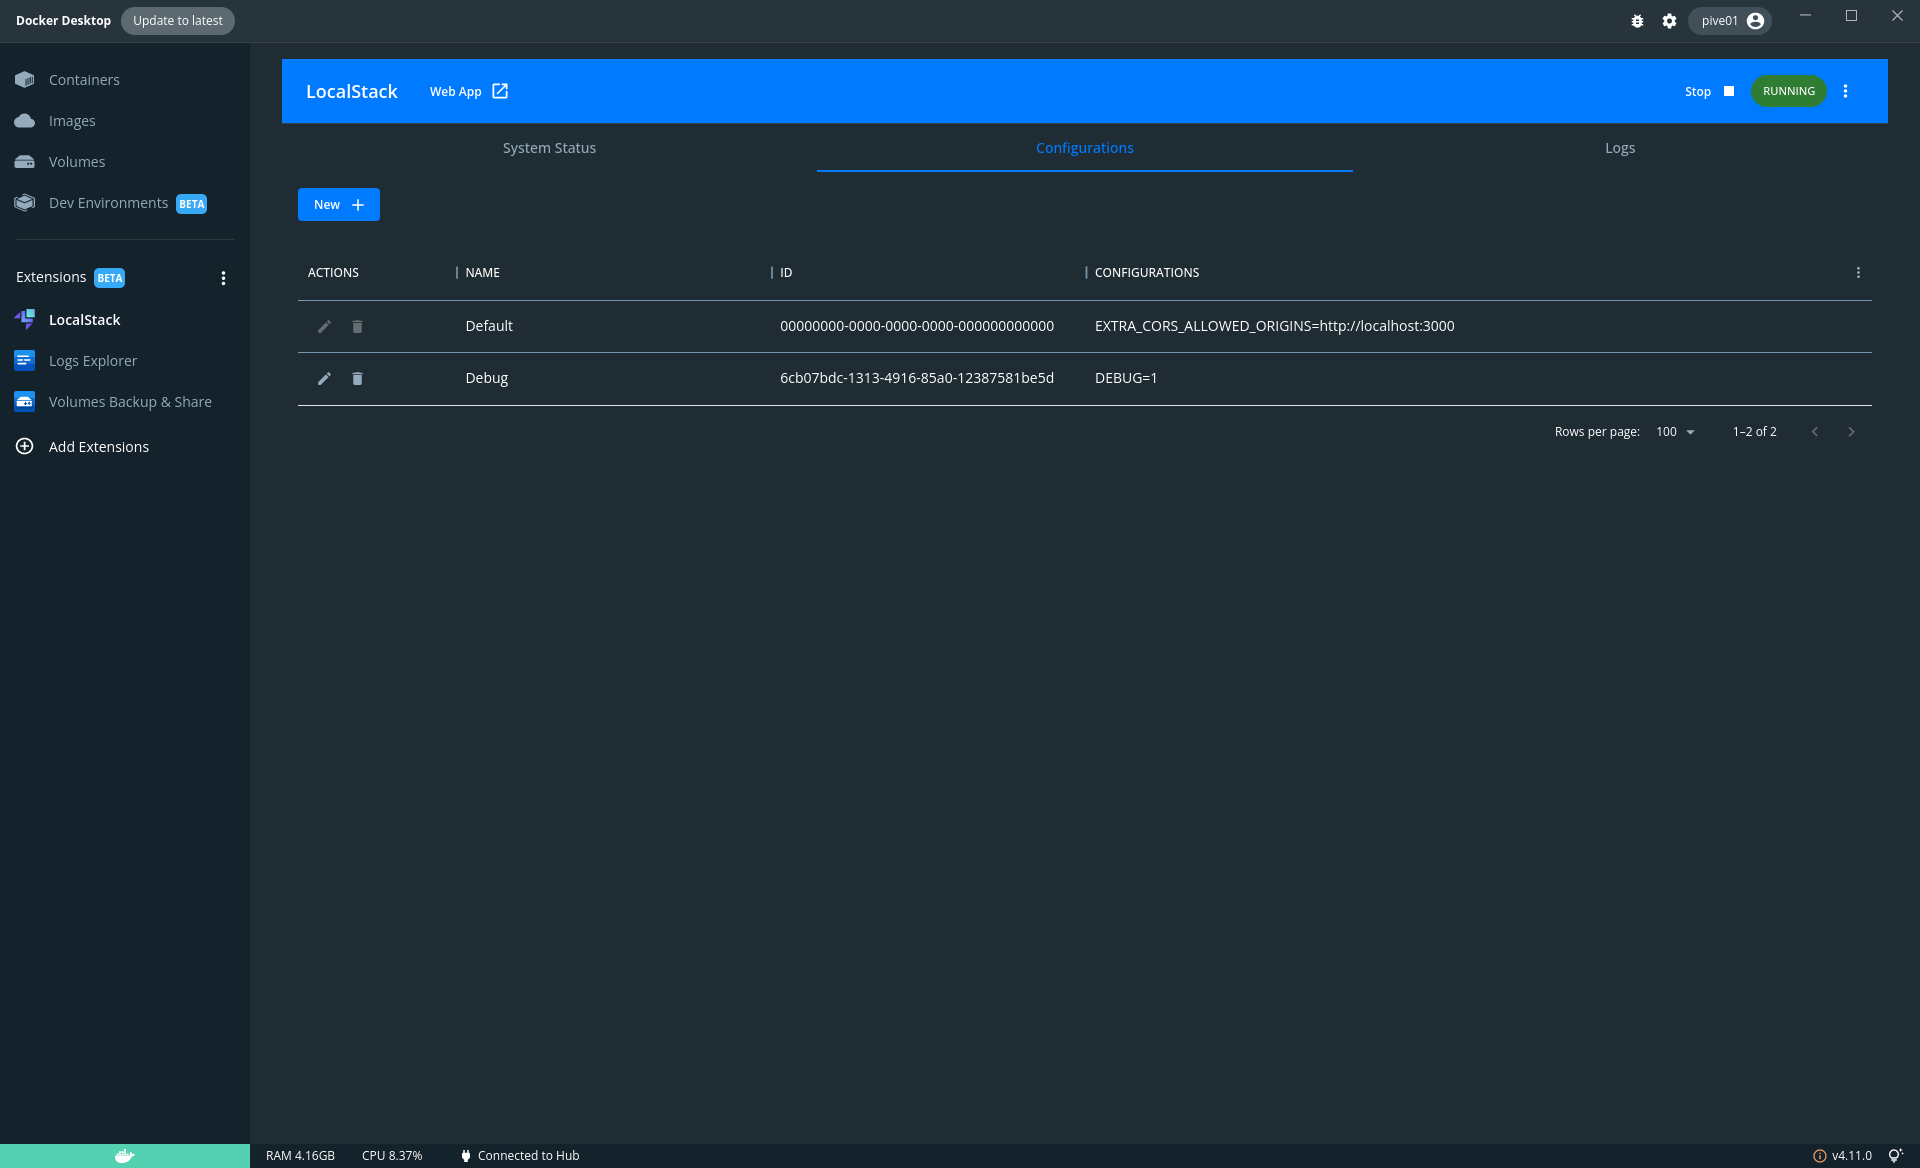
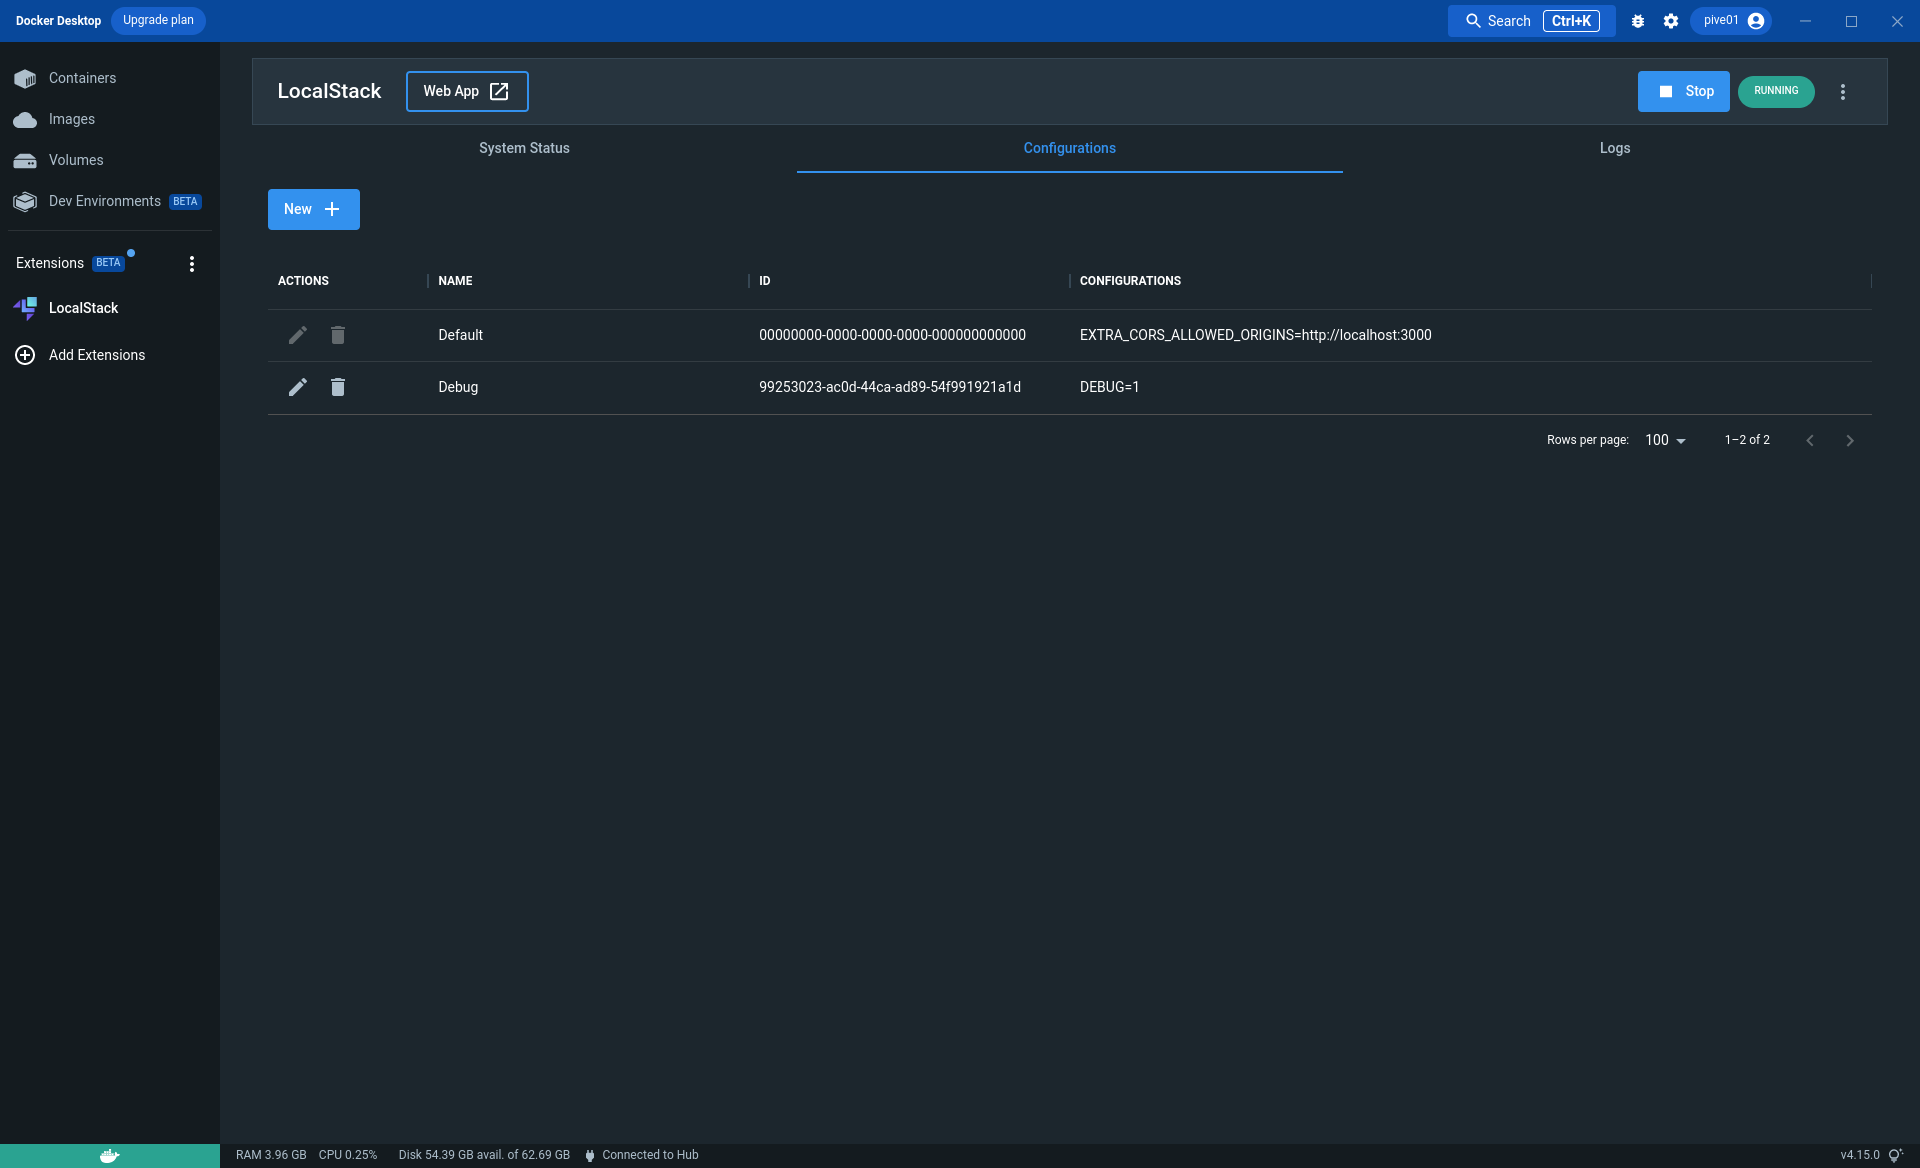
updated images and small fix (#19)

diff --git a/ui/src/App.tsx b/ui/src/App.tsx
@@ -1,4 +1,3 @@
-import { Divider } from '@mui/material';
 import React, { useState } from 'react';
 import { createStyles, makeStyles } from '@mui/styles';
 import { ControlledTabPanels, SystemStatus, Header, Logs, StartConfigs } from './components';
@@ -20,7 +19,6 @@ export function App() {
       <div className={classes.sticky}>
         <Header />
       </div>
-      <Divider />
       <ControlledTabPanels
         onTabChange={(_, to) => setSelected(to)}
         selected={selected}

diff --git a/ui/src/components/Header/Controller.tsx b/ui/src/components/Header/Controller.tsx
@@ -86,7 +86,7 @@ export const Controller = (): ReactElement => {
       <Chip
         label={isRunning ? 'Running' : 'Stopped'}
         color={isRunning ? 'success' : 'warning'}
-sx={{ p: 2, borderRadius: 10 }}
+        sx={{ p: 2, borderRadius: 10 }}
       />
       <LongMenu />
     </Box>
